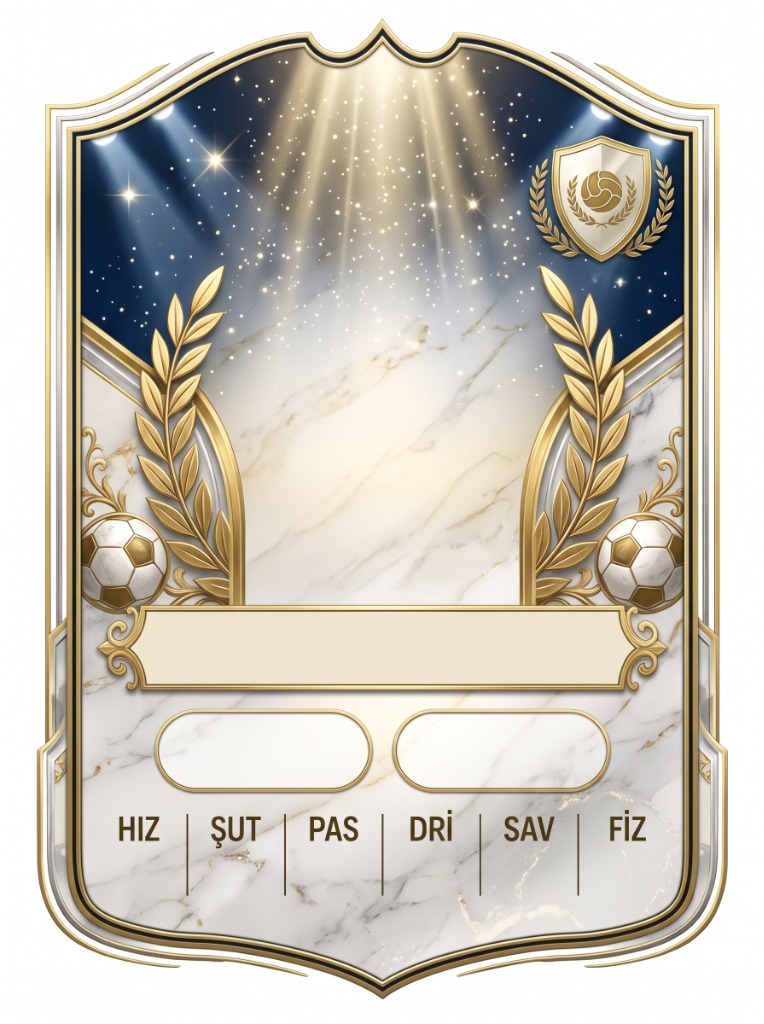
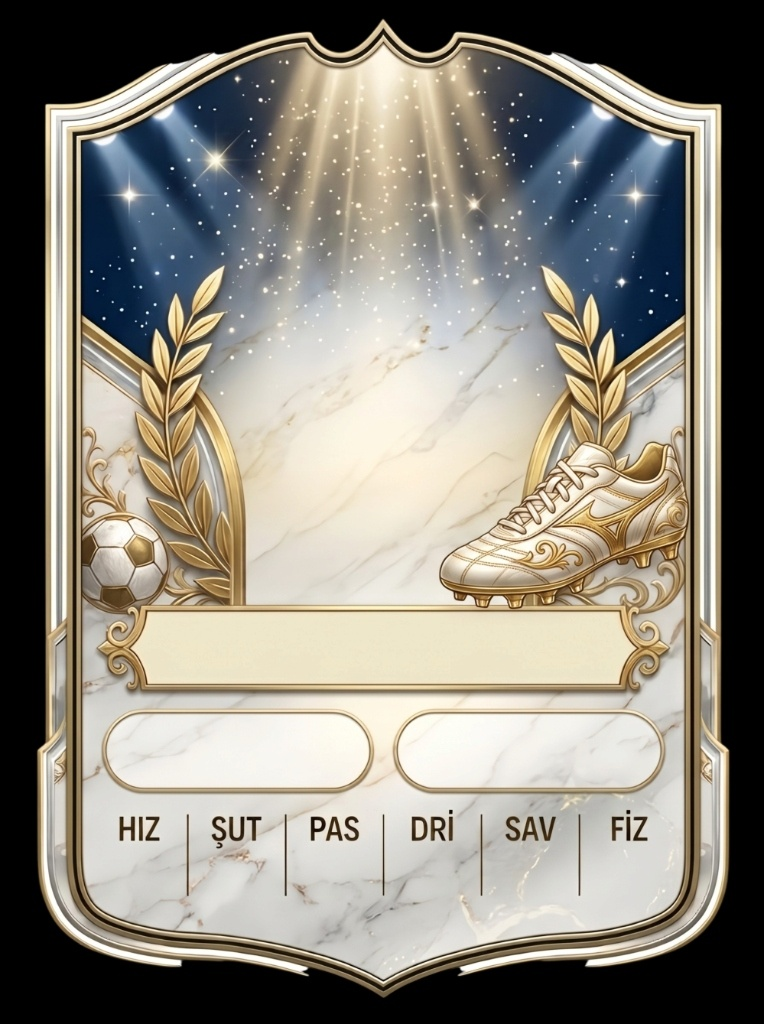
feat: update Efsane (Legend) card template and 3D winged crown crest with clean transparency

diff --git a/src/components/card/FCCard.tsx b/src/components/card/FCCard.tsx
@@ -161,12 +161,12 @@ export const FCCard: React.FC<Props> = ({
           statValColor: 'text-[#78350F]',
           ovalTextColor: 'text-[#78350F]',
           ovalIconColor: 'text-[#B45309]',
-          nameTop: 'top-[55.5%]',
-          statTop: 'top-[84.2%]',
+          nameTop: 'top-[57.2%]',
+          statTop: 'top-[84.6%]',
           statBounds: 'left-[11.3%] right-[11.3%]',
-          ovalsTop: 'top-[68.8%]',
-          ovalsBounds: 'left-[10.5%] right-[10.5%]',
-          ovalsHeight: 'h-[7.2%]',
+          ovalsTop: 'top-[69.5%]',
+          ovalsBounds: 'left-[11.5%] right-[11.5%]',
+          ovalsHeight: 'h-[6.8%]',
           photoFrame: 'top-[12%] left-[16%] right-[16%] h-[46%]',
           isGold: false,
           label: 'EFSANE • ICON 👑',

diff --git a/src/components/match/TacticalPitch.tsx b/src/components/match/TacticalPitch.tsx
@@ -34,7 +34,7 @@ const THEME_COLORS: Record<CardTheme, { ovr: string; role: string; name: string 
   totw: { ovr: 'text-[#FDE68A]', role: 'text-[#FBBF24]', name: 'text-white' },
   inform: { ovr: 'text-[#FED7AA]', role: 'text-[#FB923C]', name: 'text-orange-100' },
   revir: { ovr: 'text-[#7DD3FC]', role: 'text-[#38BDF8]', name: 'text-sky-100' },
-  legend: { ovr: 'text-[#78350F]', role: 'text-[#92400E]', name: 'text-neutral-900 font-extrabold' },
+  legend: { ovr: 'text-[#FEF08A]', role: 'text-[#FDE68A]', name: 'text-neutral-900 font-extrabold' },
   bidon: { ovr: 'text-[#EA580C]', role: 'text-[#C2410C]', name: 'text-amber-950 font-extrabold' },
 };
 
